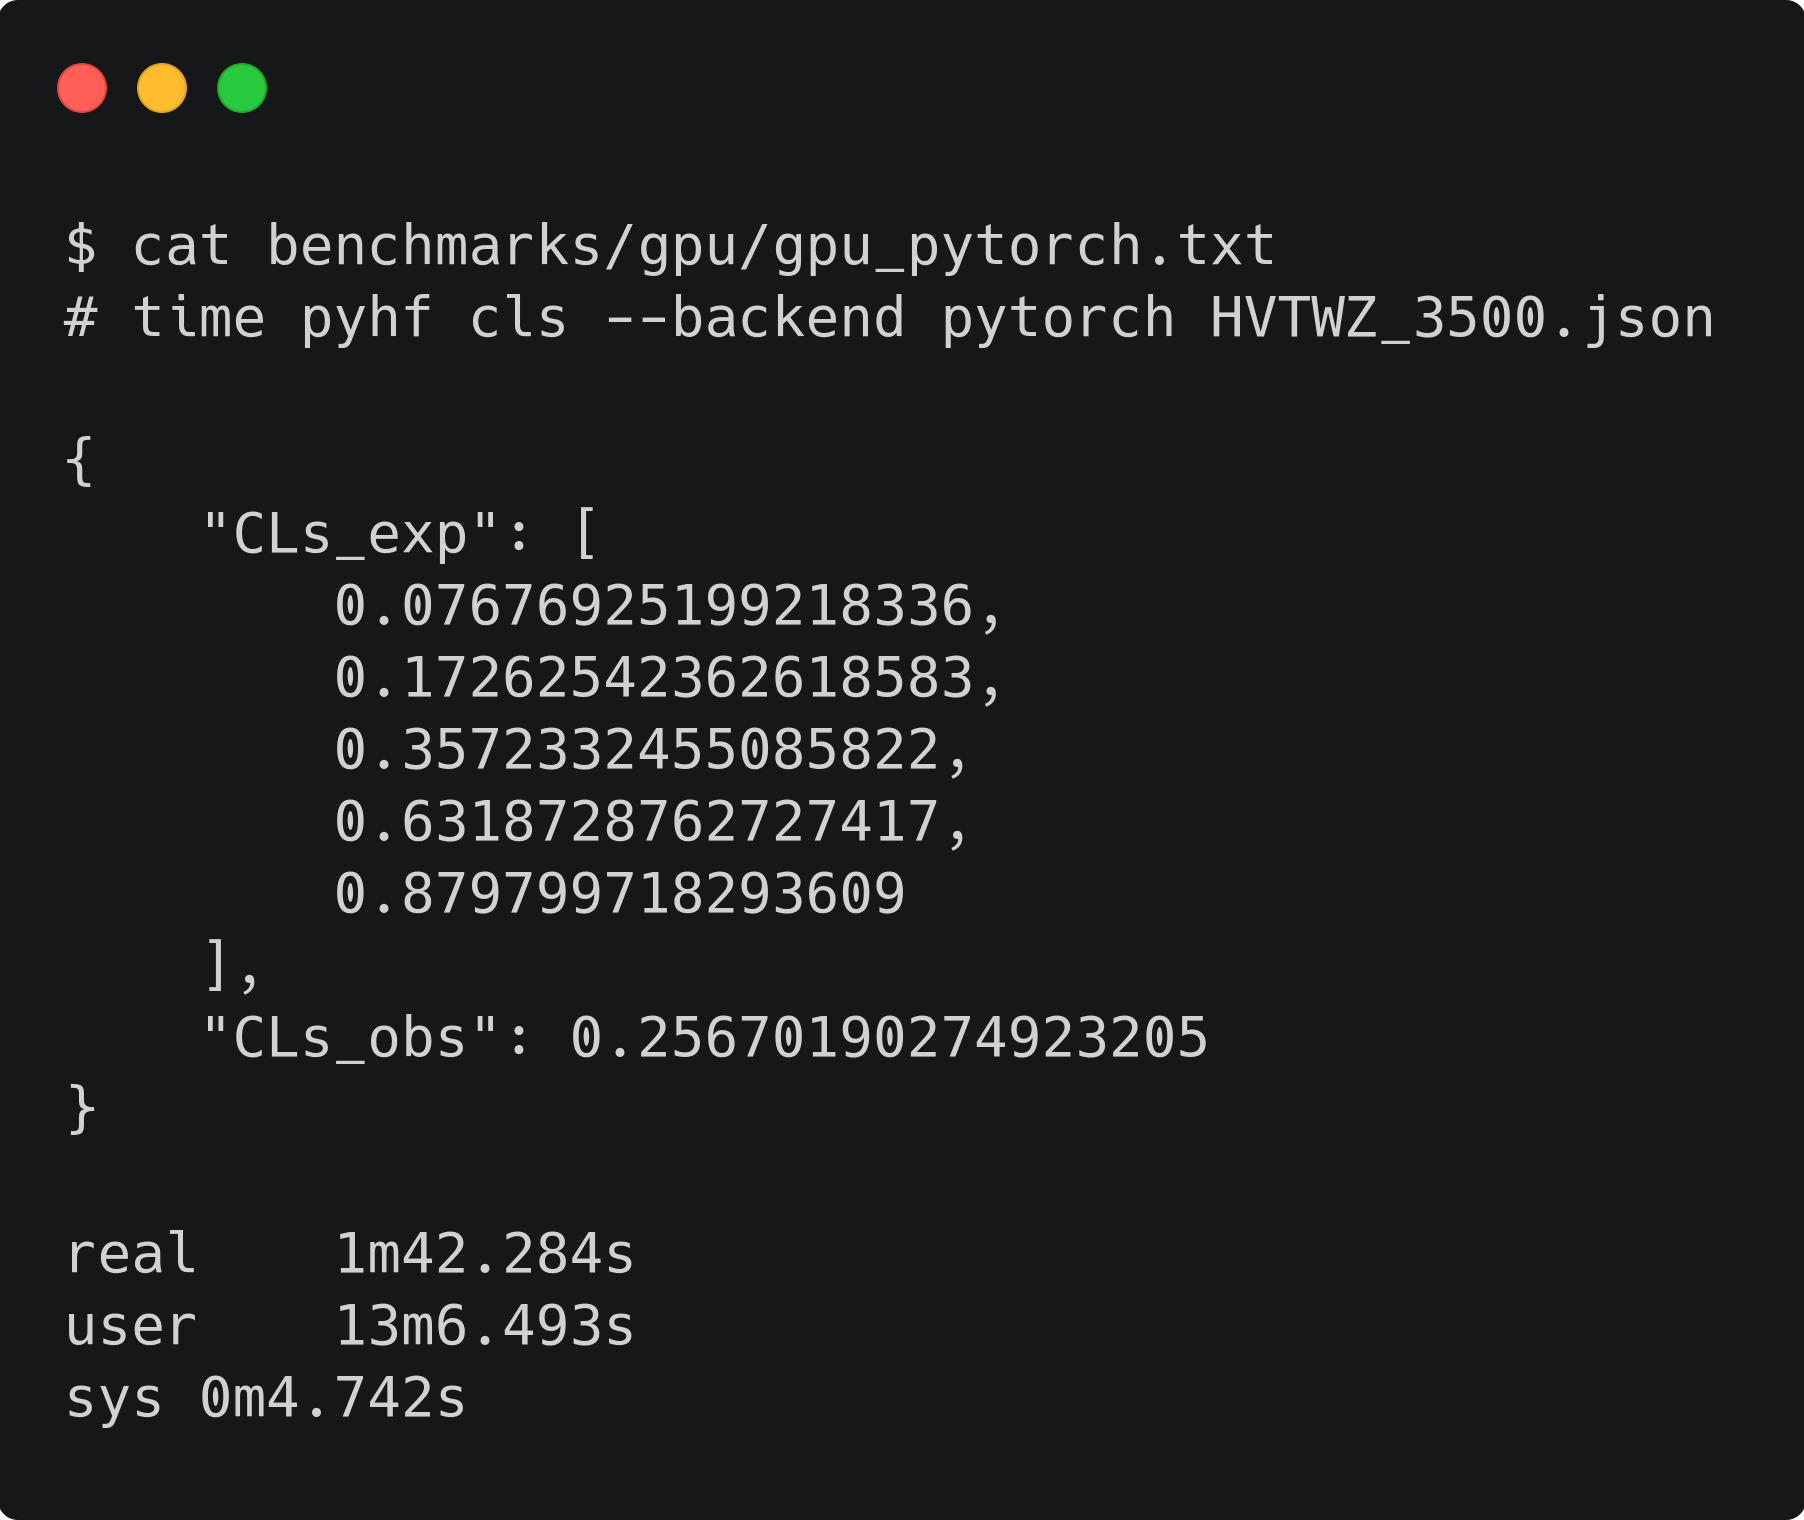
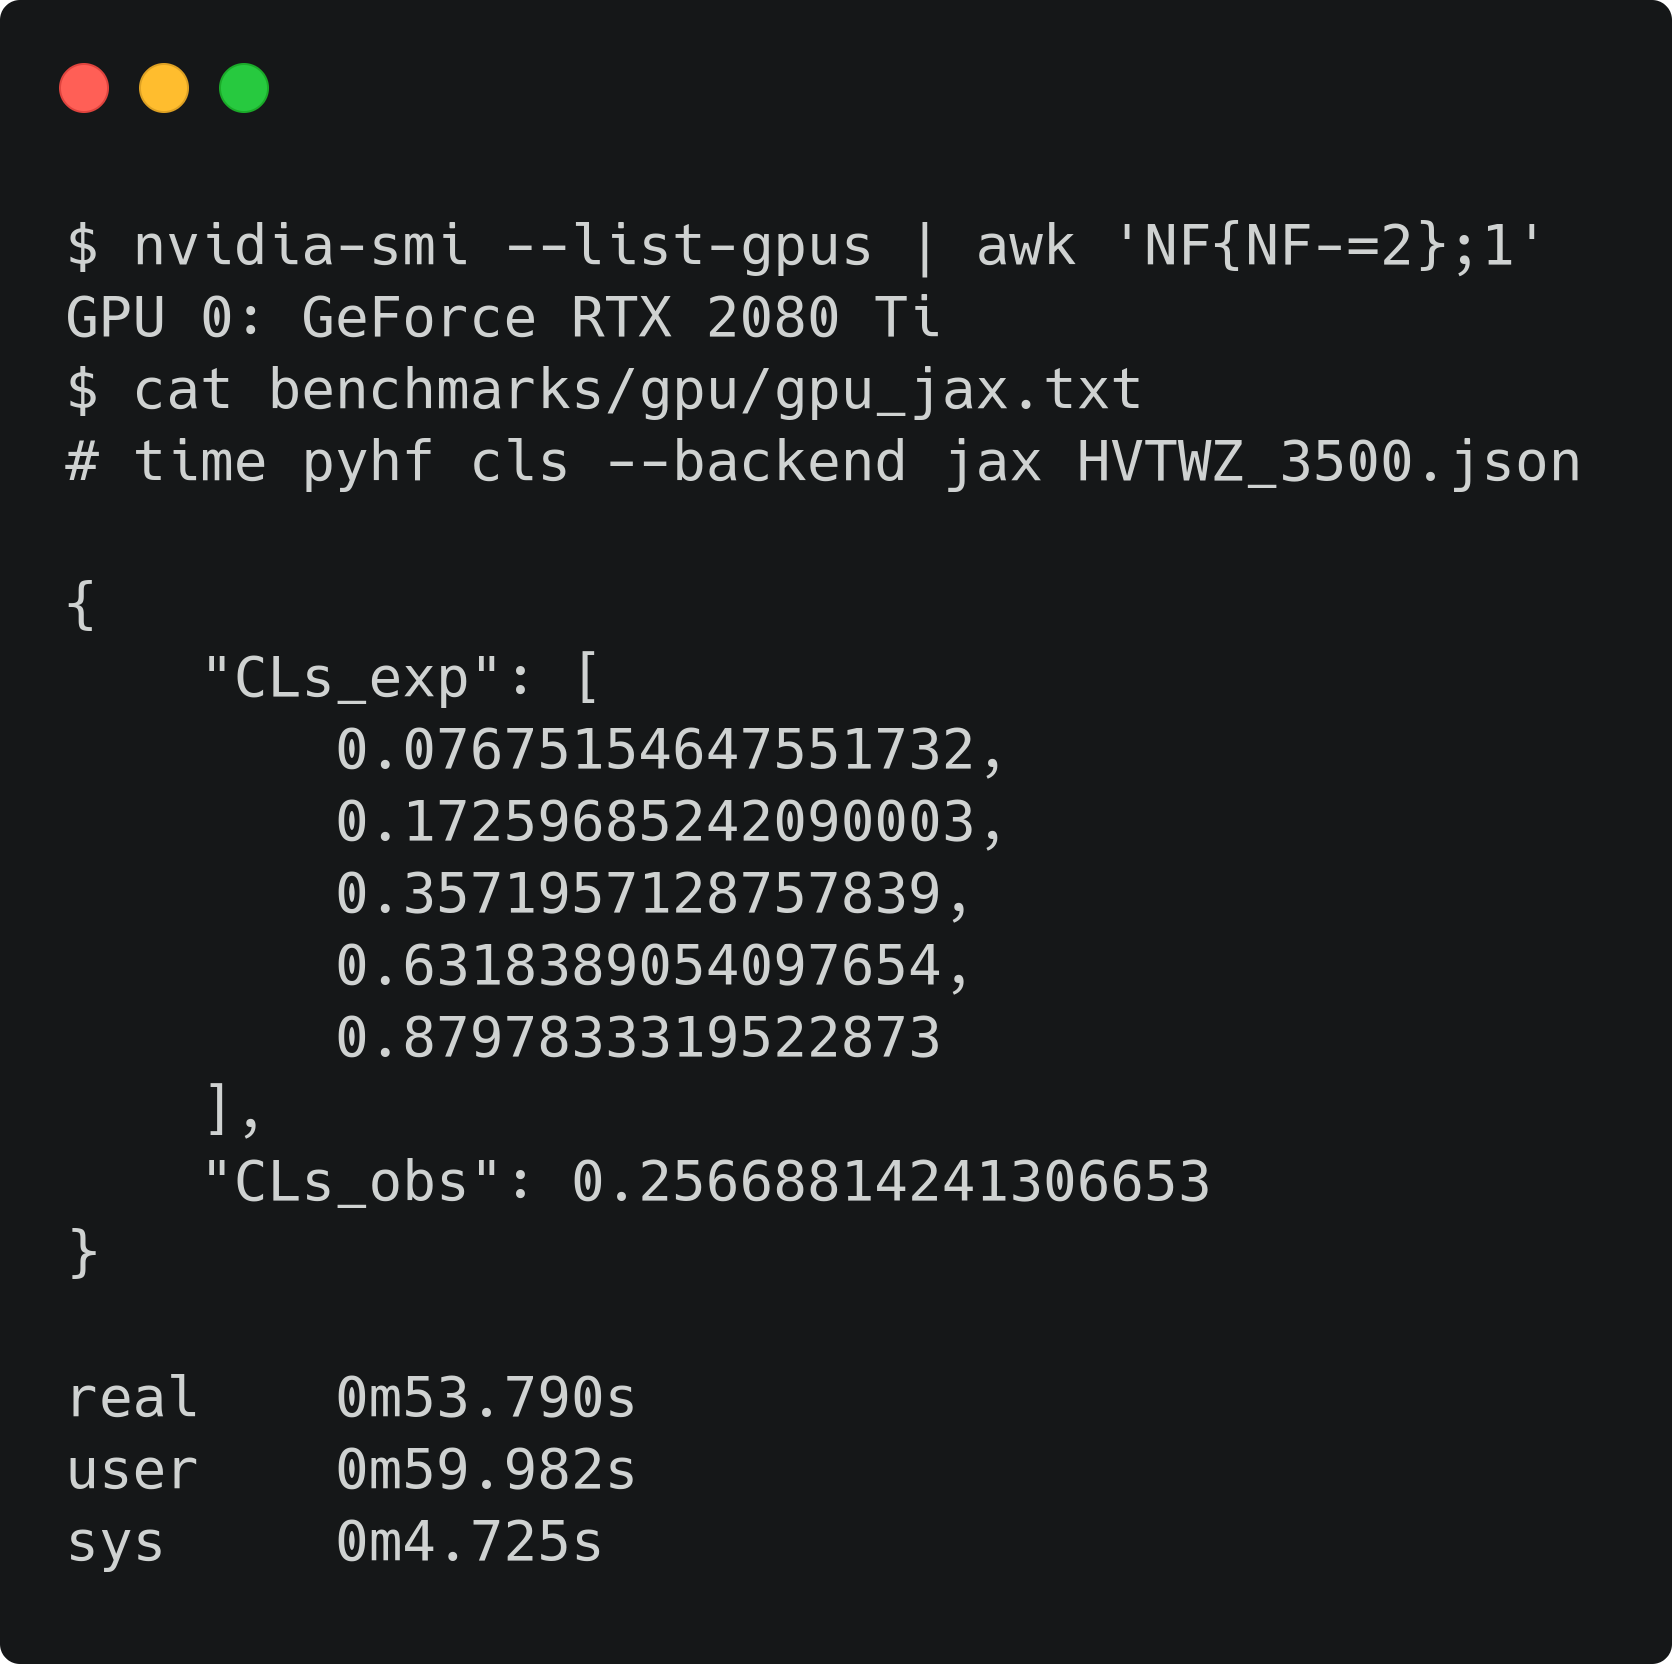
Add updated carbon GPU fit using JAX image file

diff --git a/talk.md b/talk.md
@@ -76,8 +76,8 @@ NCSA/Illinois
    - Pseudo-experiment generation ("toys")
 ]
 .kol-1-2[
- .center.width-100[![carbon_pyhf_HVTWZ_3500_fit](figures/carbon_pyhf_HVTWZ_3500_fit.png)]
- ATLAS workspace that takes over an hour on ROOT fit in under 2 minutes with pyhf on local GPU
+ .center.width-90[![carbon_pyhf_HVTWZ_3500_fit](figures/carbon_pyhf_HVTWZ_3500_fit.png)]
+ ATLAS workspace that takes over an hour on ROOT fit in under 1 minute with pyhf on local GPU
 ]
 
 ---
